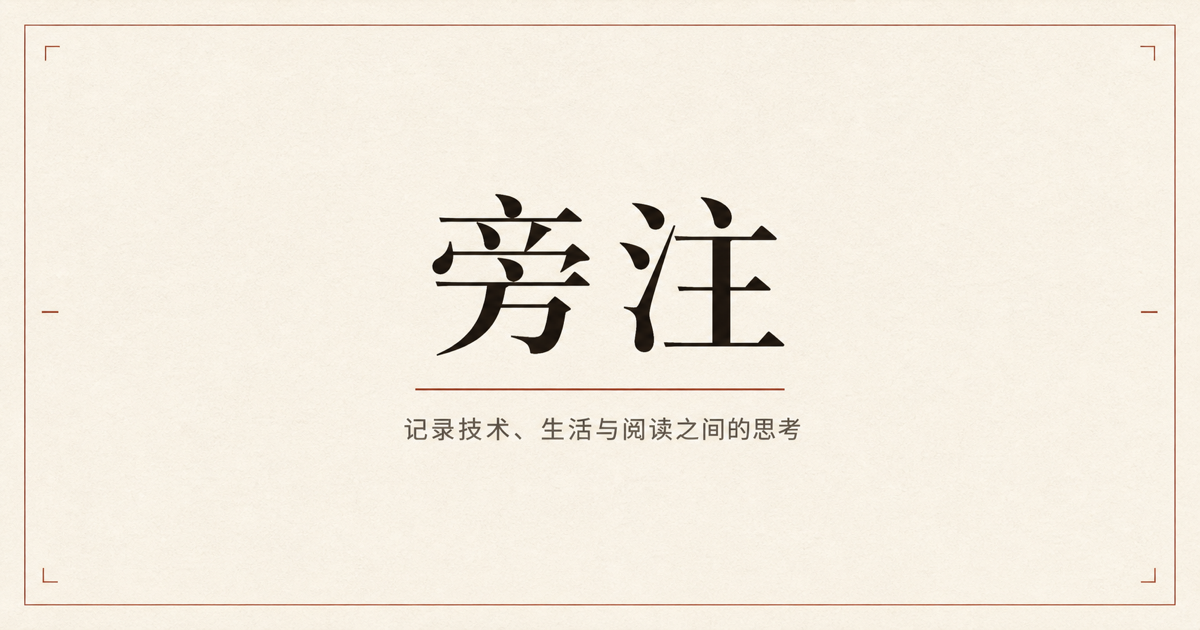
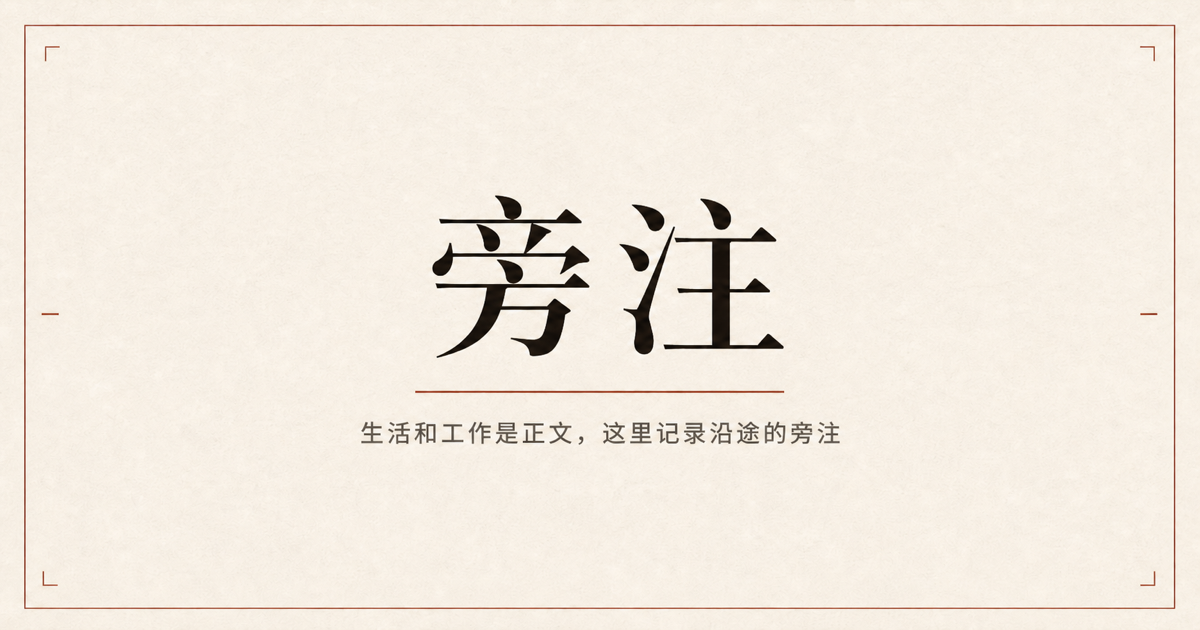
content: 调整旁注的博客定位

diff --git a/src/site.config.ts b/src/site.config.ts
@@ -2,7 +2,7 @@ import { resolveSiteUrl } from './lib/site-url.ts';
 
 export interface SiteConfig {
   title: '旁注';
-  tagline: '记录技术、生活与阅读之间的思考';
+  tagline: '生活和工作是正文，这里记录沿途的旁注';
   description: string;
   locale: 'zh-CN';
   timezone: 'Asia/Shanghai';
@@ -13,14 +13,13 @@ export interface SiteConfig {
 
 export const siteConfig = {
   title: '旁注',
-  tagline: '记录技术、生活与阅读之间的思考',
-  description:
-    '旁注是一份记录技术、生活与阅读的中文个人刊物，收集实践中的方法、日常里的观察，以及值得反复翻阅的片段。',
+  tagline: '生活和工作是正文，这里记录沿途的旁注',
+  description: '旁注是一个记录技术实践、生活观察和阅读思考的个人博客。',
   locale: 'zh-CN',
   timezone: 'Asia/Shanghai',
   siteUrl: resolveSiteUrl(import.meta.env?.SITE_URL),
   defaultOgImage: '/og-default.png',
-  defaultOgImageAlt: '旁注：记录技术、生活与阅读之间的思考',
+  defaultOgImageAlt: '旁注：生活和工作是正文，这里记录沿途的旁注',
 } satisfies SiteConfig;
 
 export function getAbsoluteSiteUrl(path: `/${string}`): string {

diff --git a/tests/unit/seo-feed.test.ts b/tests/unit/seo-feed.test.ts
@@ -48,7 +48,7 @@ test('RSS 只选择最近二十项且不修改输入数组', () => {
 test('分享图默认回退并保留文章封面信息', () => {
   assert.deepEqual(getDefaultSeoImage(), {
     src: '/og-default.png',
-    alt: '旁注：记录技术、生活与阅读之间的思考',
+    alt: '旁注：生活和工作是正文，这里记录沿途的旁注',
     width: 1200,
     height: 630,
   });
@@ -63,7 +63,7 @@ test('首页、栏目和关于页生成对应结构化数据', () => {
     createStructuredData({
       pageKind: 'home',
       canonicalUrl: 'http://localhost:4321/',
-      title: '旁注｜记录技术、生活与阅读之间的思考',
+      title: '旁注｜生活和工作是正文，这里记录沿途的旁注',
       description: '站点摘要',
     })[0],
   );

diff --git a/tests/e2e/core-pages.spec.ts b/tests/e2e/core-pages.spec.ts
@@ -15,7 +15,7 @@ const publicRoutes = [
 ];
 
 const pageContracts = [
-  { route: '/', title: '旁注｜记录技术、生活与阅读之间的思考', heading: '旁注' },
+  { route: '/', title: '旁注｜生活和工作是正文，这里记录沿途的旁注', heading: '旁注' },
   { route: '/posts/', title: '全部文章｜旁注', heading: '全部文章' },
   { route: '/posts/welcome/', title: '欢迎来到旁注｜旁注', heading: '欢迎来到旁注' },
   { route: '/tags/', title: '标签｜旁注', heading: '标签' },

diff --git a/tests/e2e/home.spec.ts b/tests/e2e/home.spec.ts
@@ -5,7 +5,7 @@ test('最小首页可以通过生产预览访问', async ({ page }) => {
   const response = await page.goto('/');
 
   expect(response?.ok()).toBe(true);
-  await expect(page).toHaveTitle('旁注｜记录技术、生活与阅读之间的思考');
+  await expect(page).toHaveTitle('旁注｜生活和工作是正文，这里记录沿途的旁注');
   await expect(page.locator('html')).toHaveAttribute('lang', 'zh-CN');
 
   const heading = page.getByRole('heading', { level: 1, name: '旁注' });

diff --git a/src/content/posts/welcome/index.md b/src/content/posts/welcome/index.md
@@ -1,6 +1,6 @@
 ---
 title: 欢迎来到旁注
-description: 介绍“旁注”为什么存在、会记录什么，以及这份个人刊物将如何慢慢生长。
+description: 介绍“旁注”为什么存在、会记录什么，以及这个博客将如何慢慢生长。
 publishedAt: 2026-07-17T09:00:00+08:00
 tags:
   - technology
@@ -17,6 +17,8 @@ featured: true
 ## 为什么叫旁注
 
 许多真正有用的认识，并不是在事情开始前就完整出现的。它们更像写在正文旁边的注释：来自实践，也随着理解不断修订。
+
+生活和工作是正文，这里记录沿途的旁注。
 
 “旁注”希望保留这些尚未变成宏大结论、但已经足够具体的内容。
 

diff --git a/README.md b/README.md
@@ -1,6 +1,6 @@
 # 旁注
 
-“旁注”是一份记录技术、生活与阅读的中文个人静态博客。项目已经具备可复现的工程基础、Markdown/MDX 内容系统、中文全文搜索、订阅和完整的静态 SEO 输出。
+“旁注”是一个记录技术实践、生活观察和阅读思考的中文个人静态博客。项目已经具备可复现的工程基础、Markdown/MDX 内容系统、中文全文搜索、订阅和完整的静态 SEO 输出。
 
 ## 环境
 